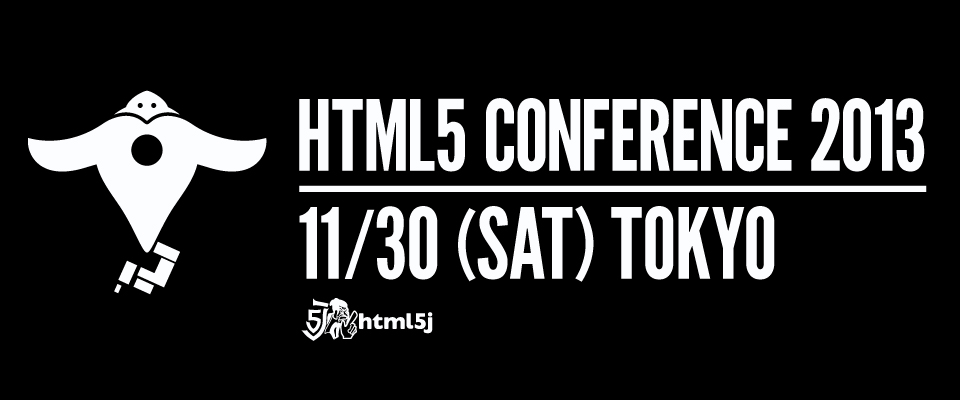
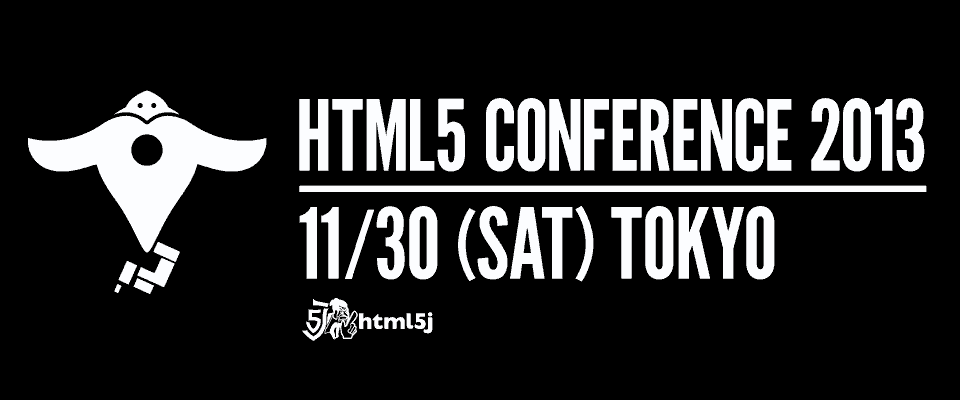
画像の減色。CodeIQの画像をPNGに差し替え。OGP画像を不透明な白黒PNGに。

Changed region(s): [[0.3125, 0.78, 0.4062, 0.84], [0.5938, 0.3, 0.625, 0.33]]

diff --git a/index.html b/index.html
@@ -182,7 +182,7 @@
 <section id="sponsors">
   <h4>協賛企業</h4>
   <ul>
-    <li><a href="https://codeiq.jp/"><img src="img/banner_codeiq.jpg" alt="CodeIQ"></a>
+    <li><a href="https://codeiq.jp/"><img src="img/banner_codeiq.png" alt="CodeIQ"></a>
   </ul>
 </section>
 
